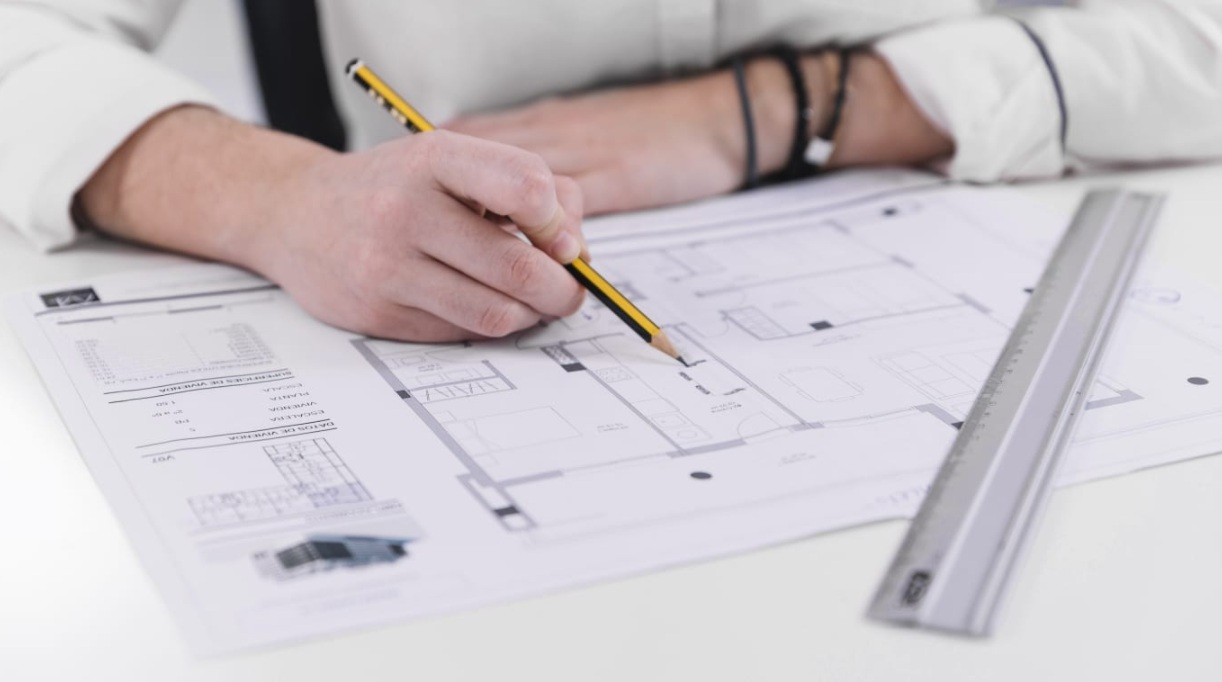
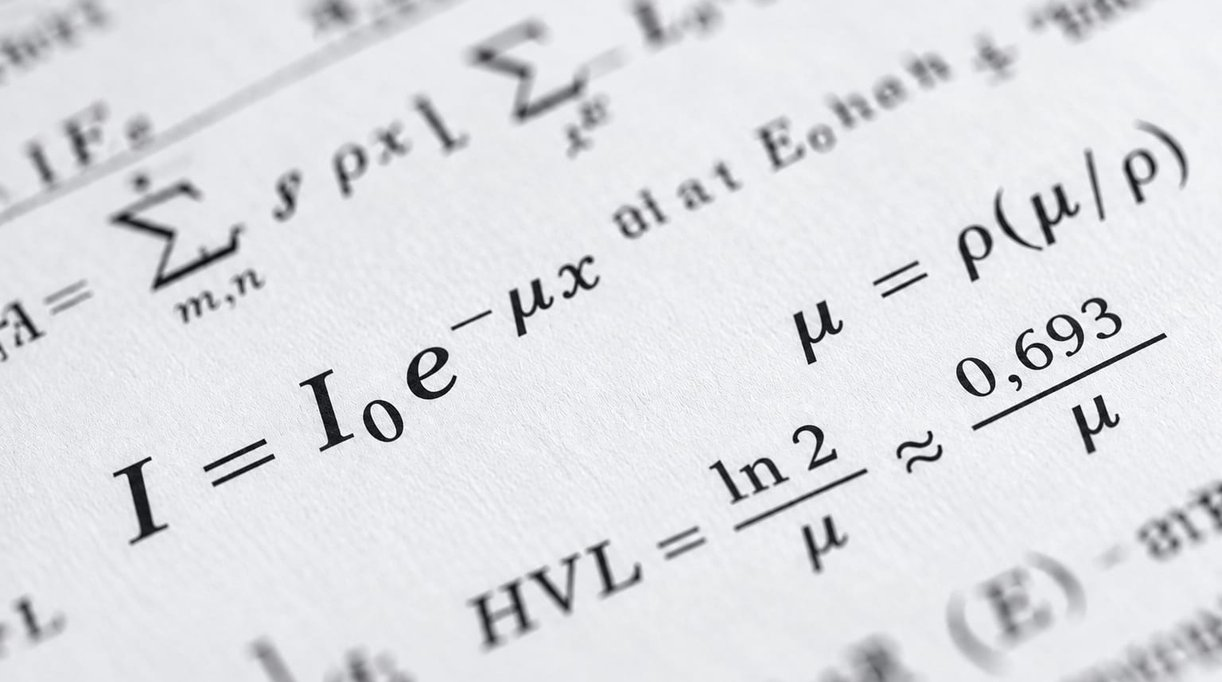
Trocar imagem de Cálculo de Blindagem e atualizar texto de Radiologia Industrial

diff --git a/radiologia-industrial.html b/radiologia-industrial.html
@@ -47,15 +47,16 @@ height="0" width="0" style="display:none;visibility:hidden"></iframe></noscript>
         <div class="serv-card">
             <p>O uso de radiações ionizantes tornou-se o padrão ouro para garantir o controle de qualidade e a integridade de processos em setores estratégicos. Seja na detecção de falhas estruturais ou na esterilização de materiais, essa tecnologia é indispensável para indústrias que buscam precisão e alta performance.</p>
     
+            <p>As <strong>radiações ionizantes</strong> são utilizadas em diversos setores e aplicações industriais, entre eles:</p>
+
             <ul>
-                <li ><strong>Metalurgia e Siderurgia:</strong> Ensaios não destrutivos (END) para detectar fissuras e falhas em soldas e peças metálicas.</li>
-                <li><strong>Construção Civil:</strong> Inspeção de estruturas de concreto, mapeamento de armaduras e verificação de densidade do solo.</li>
-                <li><strong>Setor de Bebidas e Alimentos:</strong> Controle preciso de nível em envases e inspeção de contaminantes.</li>
-                <li><strong>Indústria Têxtil:</strong> Medição de gramatura e controle de qualidade de fibras.</li>
-                <li style="margin-bottom: 14px;"><strong>Esterilização Médica:</strong> Garantia de biossegurança em insumos hospitalares através da irradiação.</li>
+                <li><strong>Metalurgia:</strong> Inspeção radiográfica de soldas, fundições e componentes metálicos.</li>
+                <li><strong>Petróleo e Gás:</strong> Inspeção de tubulações, tanques e equipamentos.</li>
+                <li><strong>Construção Civil:</strong> Aplicações radiográficas em estruturas de concreto e outros materiais.</li>
+                <li style="margin-bottom: 14px;"><strong>Indústria Automotiva:</strong> Inspeção de componentes e peças.</li>
             </ul>
-            
-            <p>A <strong>SP Rad</strong> oferece serviços de proteção radiológica para radiologia industrial, contribuindo para operações seguras e em conformidade.</p>
+
+            <p>A <strong>SP Rad</strong> atua na <strong>proteção radiológica</strong> relacionada a essas aplicações, oferecendo serviços voltados à <strong>segurança radiológica</strong>, ao <strong>controle das exposições</strong> e ao atendimento dos requisitos aplicáveis.</p>
         </div>
 
     </div>   

diff --git a/calculo-de-blindagem.html b/calculo-de-blindagem.html
@@ -42,7 +42,7 @@ height="0" width="0" style="display:none;visibility:hidden"></iframe></noscript>
         <h2 class="serv-title">Cálculo de Blindagem para Proteção Radiológica</h2>   
         
         <div class="serv-banner-ajust">
-            <img src="servicos/projetos-de-calculo-de-blindagem.jpeg" alt="Cálculo de Blindagem para Proteção Radiológica">
+            <img src="servicos/calculo-de-blindagem-para-protecao-radiologica.jpeg" alt="Cálculo de Blindagem para Proteção Radiológica">
         </div> 
         <div class="serv-card">
             <p>O Cálculo de Blindagem é essencial para garantir a proteção de profissionais e do público contra os efeitos da radiação ionizante em ambientes radiológicos.</p>
